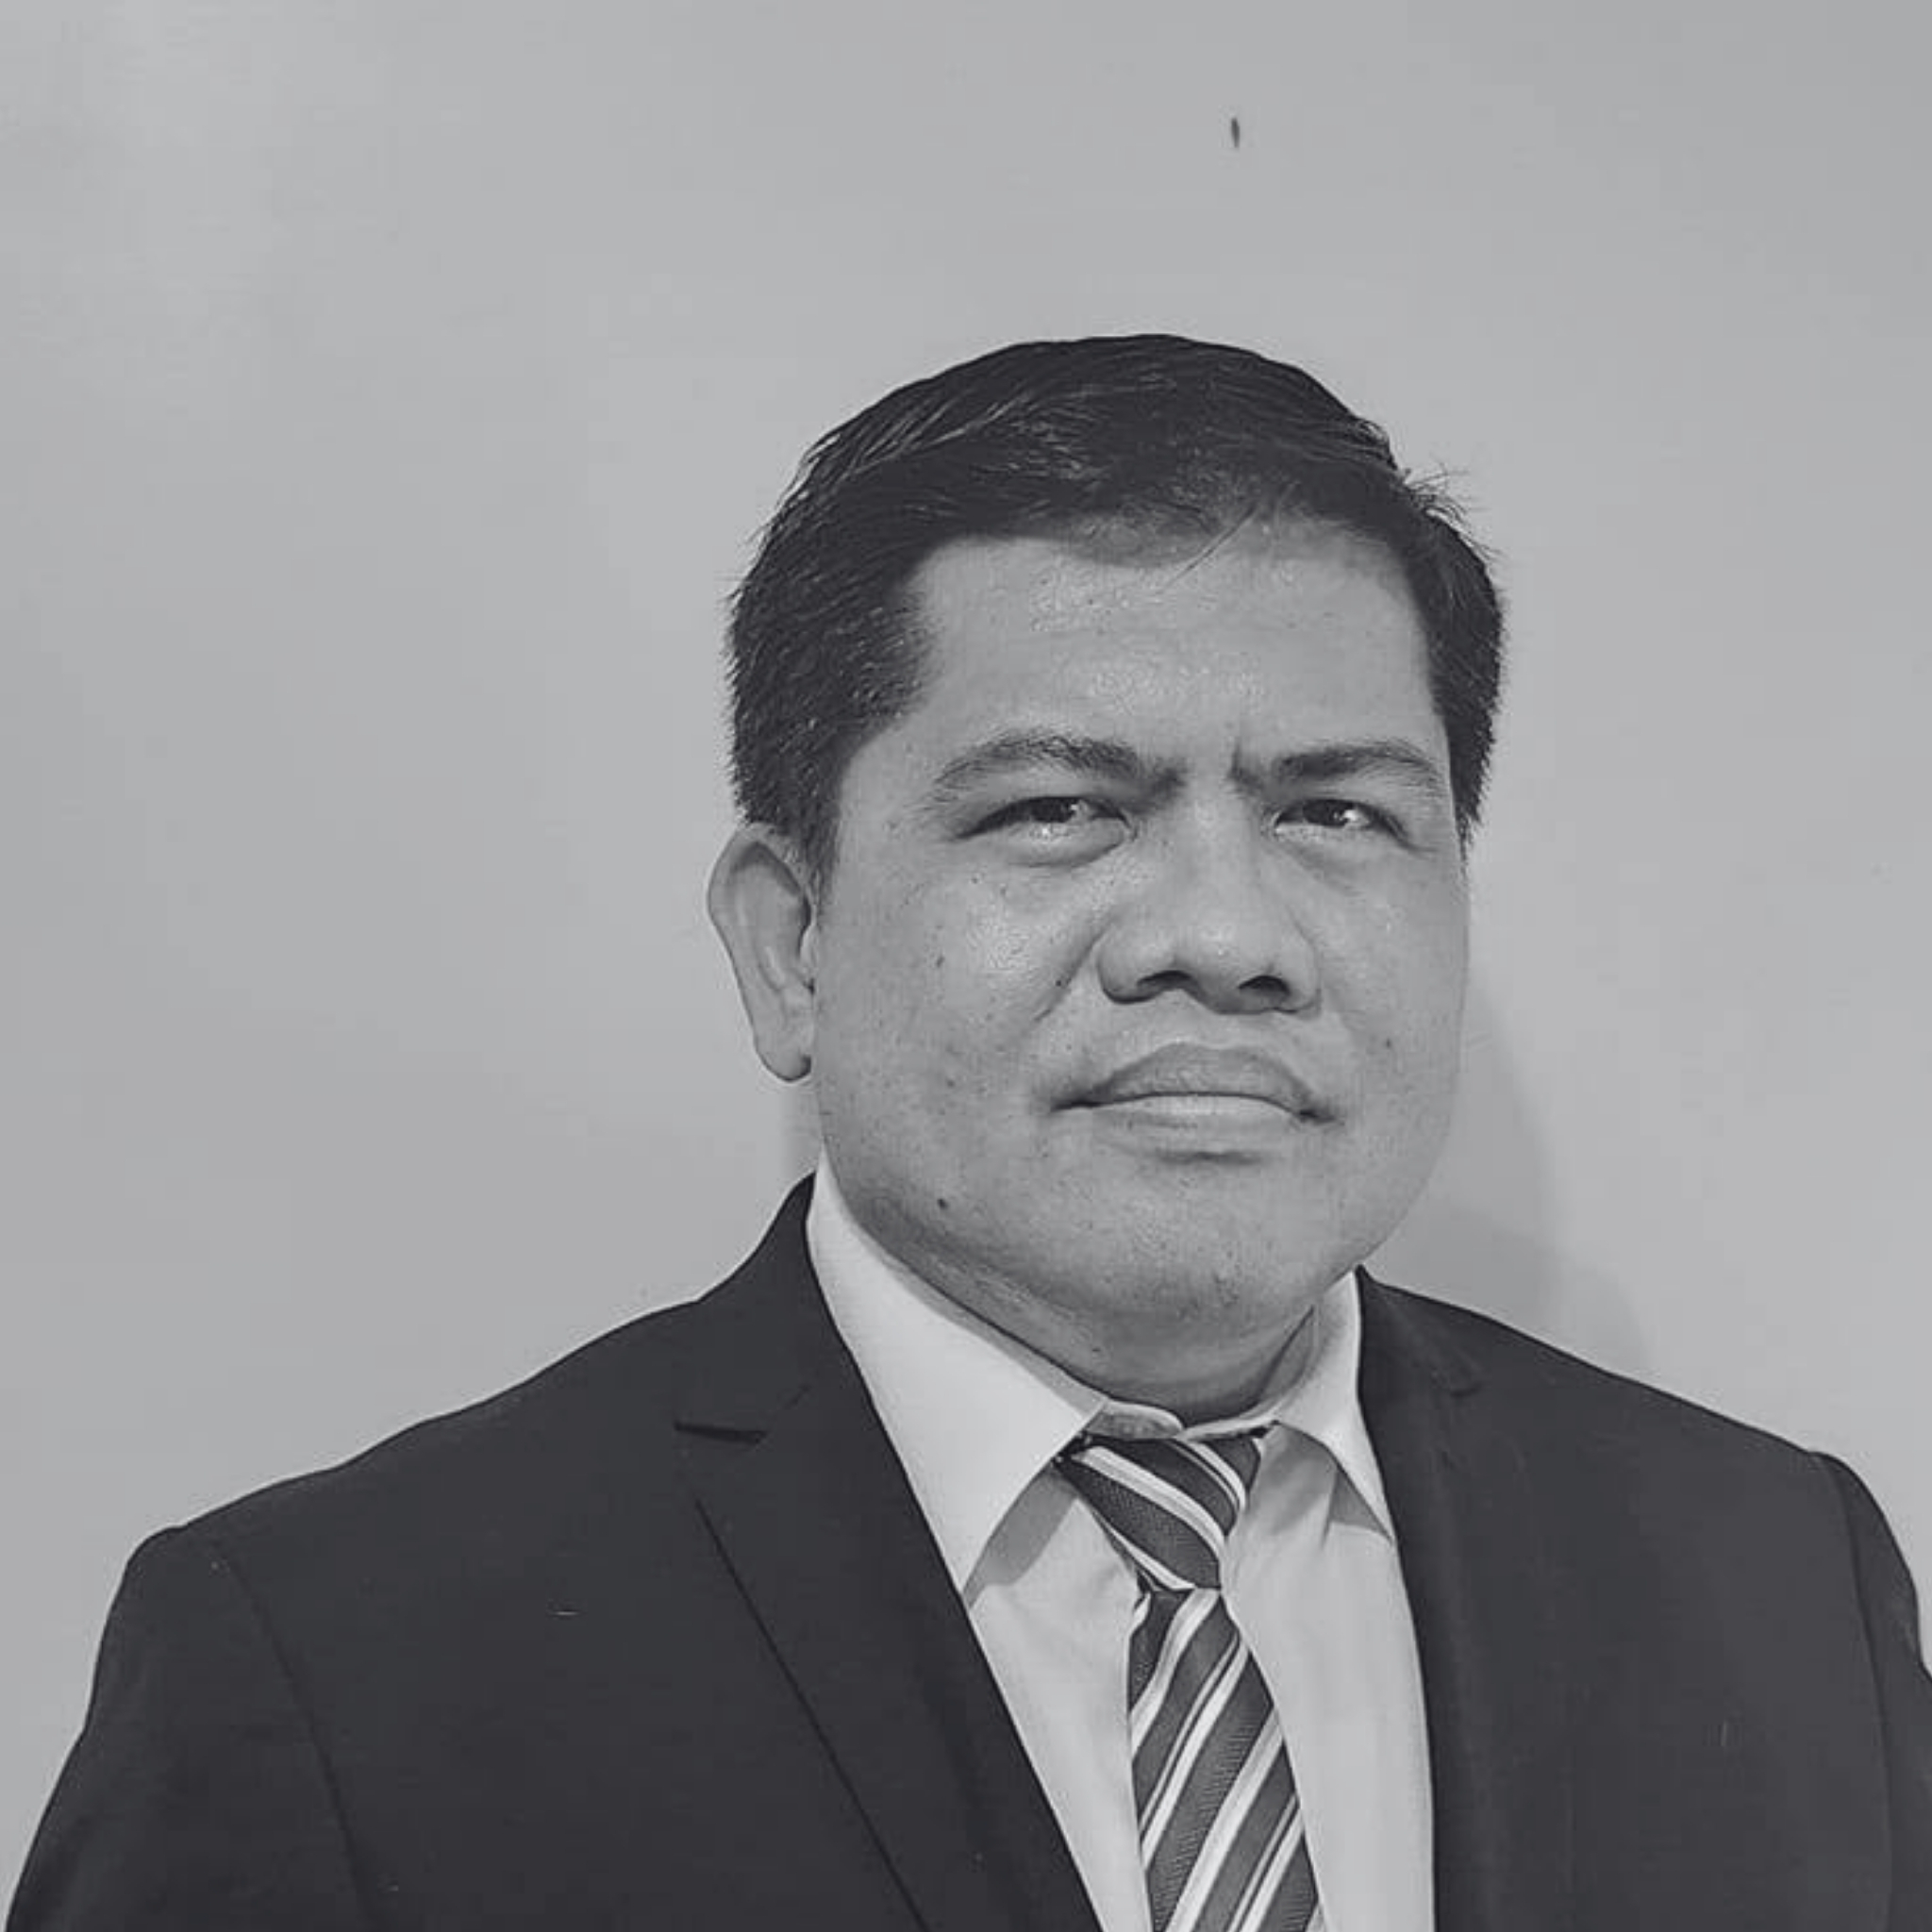
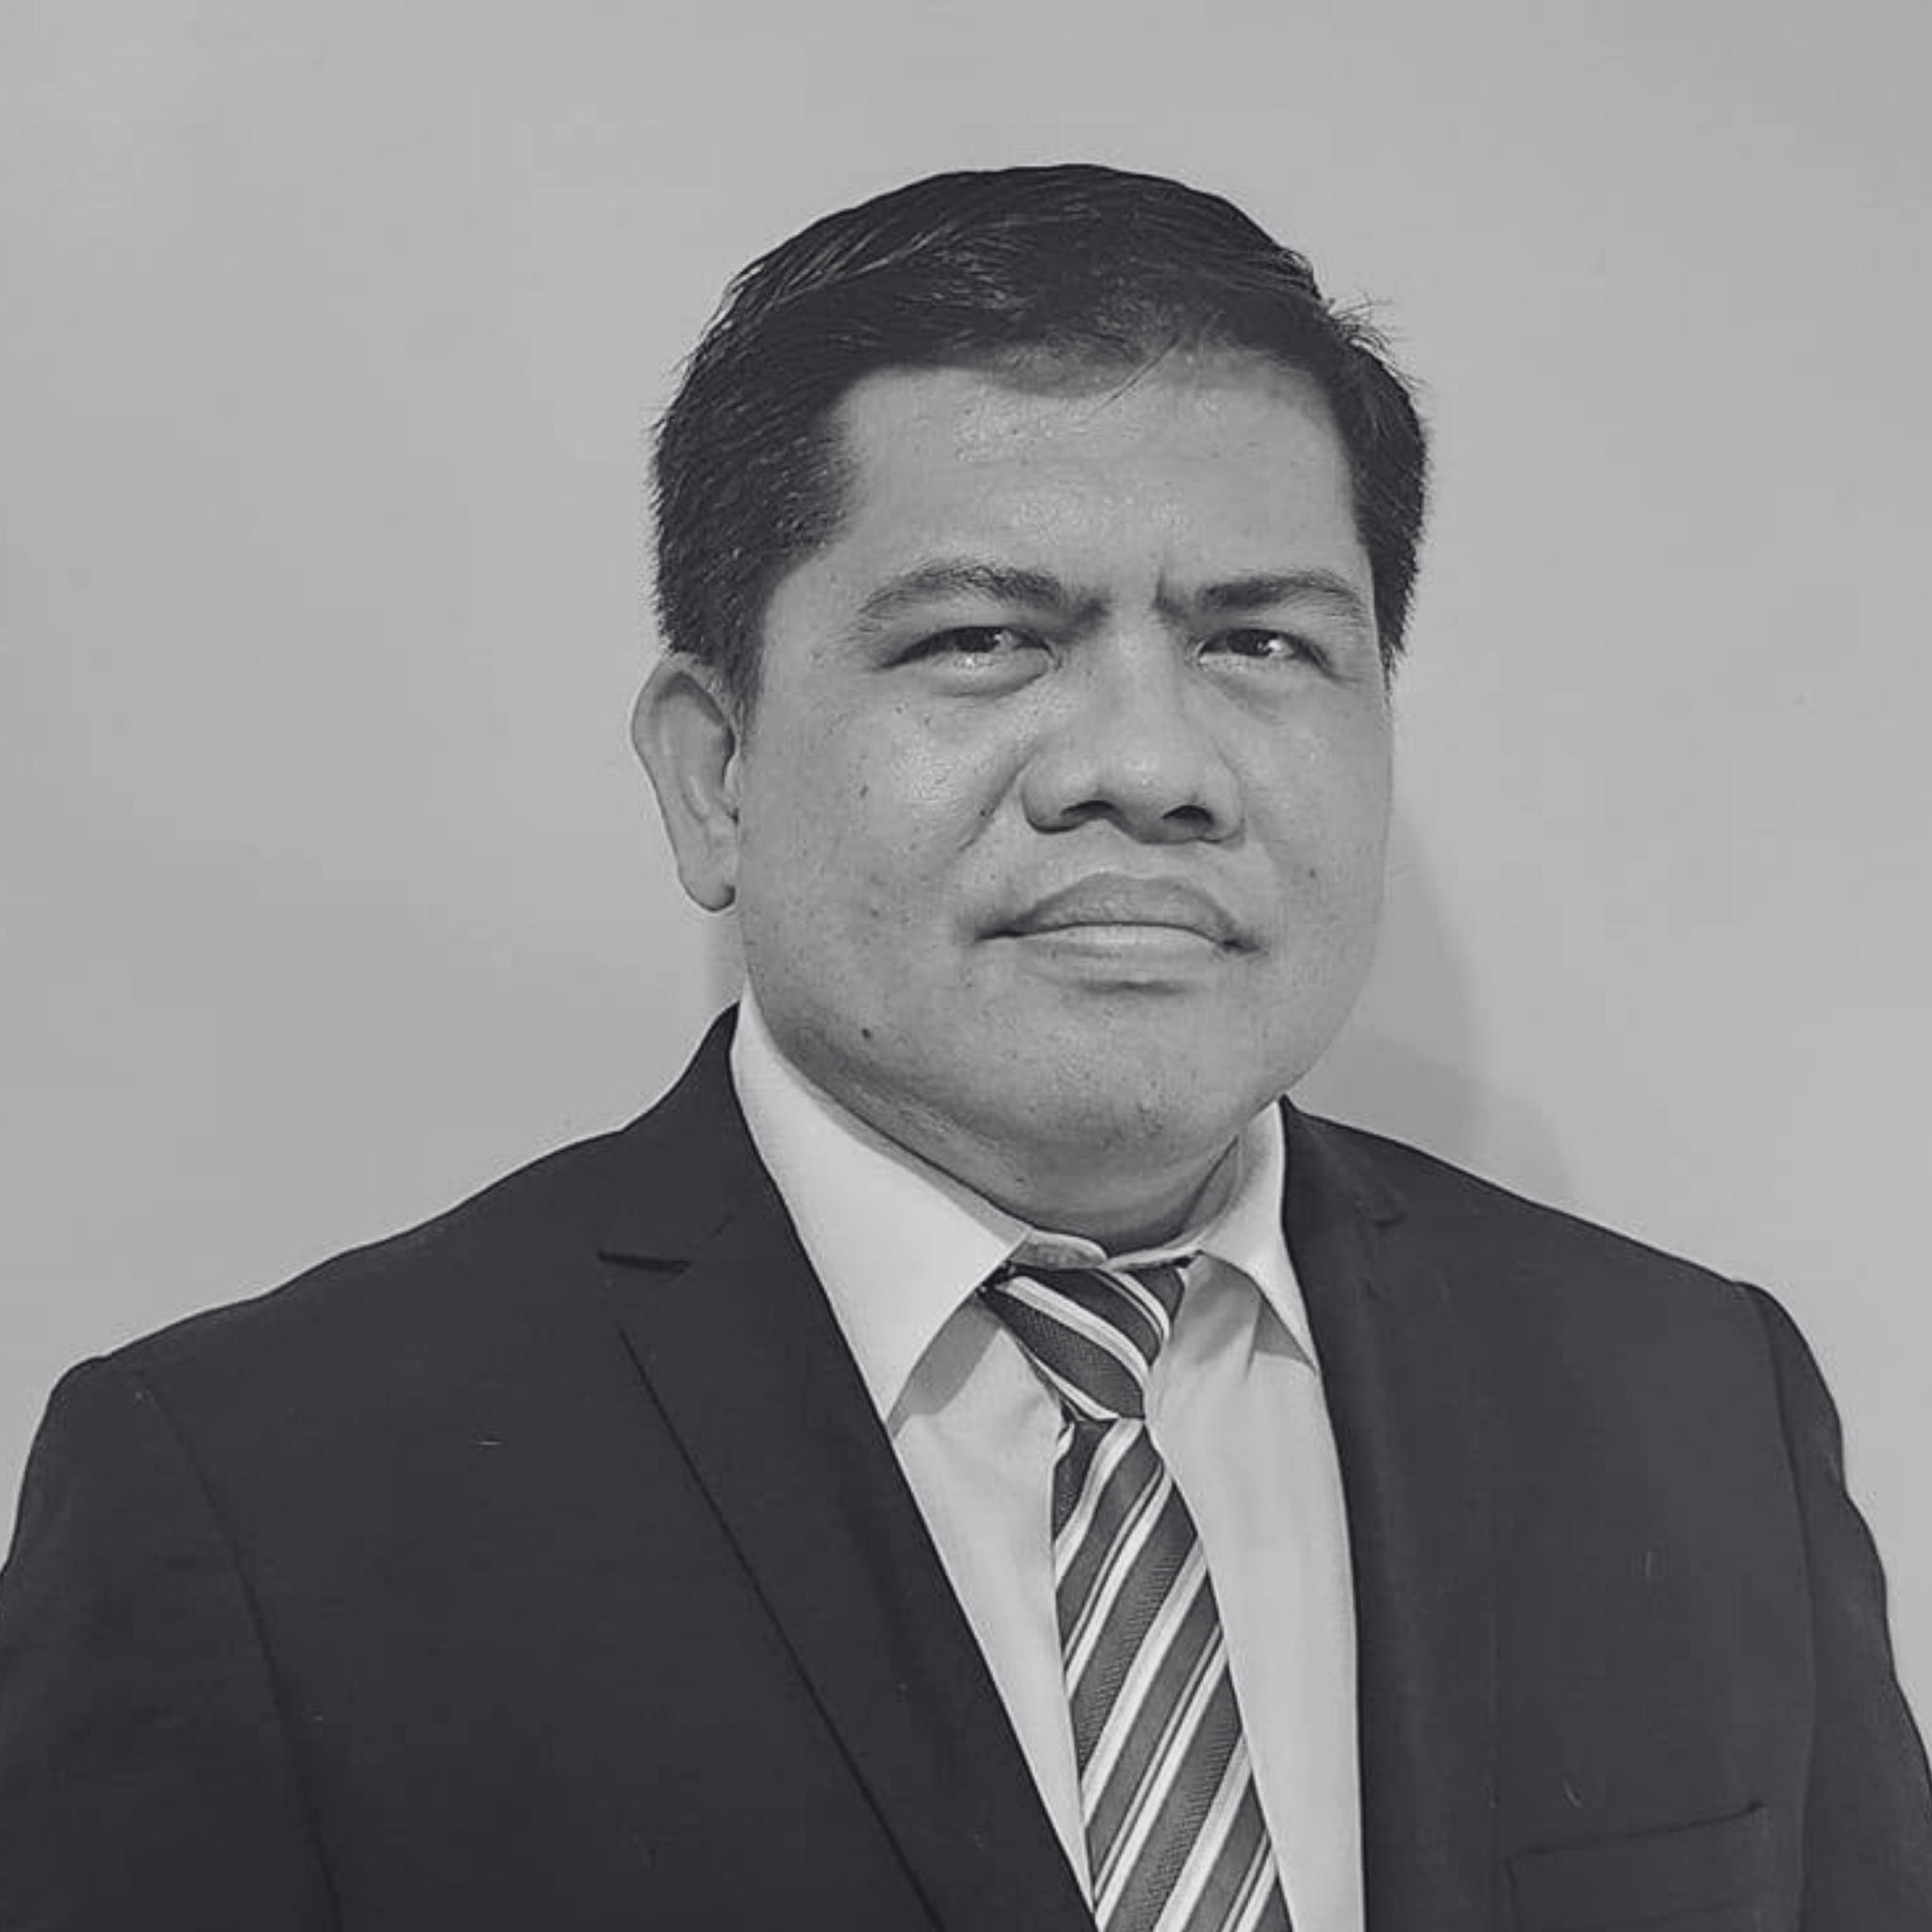
update

Changed region(s): [[0.0, 0.0625, 0.9688, 1.0], [0.9688, 0.7812, 1.0, 0.9062]]

diff --git a/src/views/ProgramsView.vue b/src/views/ProgramsView.vue
@@ -76,18 +76,18 @@ onMounted(() => {
           <div class="team-grid mt-2">
             <div class="team-member">
               <img class="team-avatar" src="/newsletter/author/sammy-tabuena.jpg" alt="Sammy Tabuena" />
-              <h4>Sammy Tabuena</h4>
-              <p>Transcription and Editorial Preparation</p>
-              <p>Senior Instructor</p>
-              <p>Pastor, New Testament Baptist Church - Trapiche, Oton</p>
+              <h4>Sammy G. Tabuena</h4>
+              <p style="font-style: italic; font-size: 0.9rem;">Transcription and Editorial Preparation
+              <br>Senior Instructor
+              <br>Pastor, New Testament Baptist Church - Trapiche, Oton, Iloilo</p>
             </div>
             
           
             <div class="team-member">
               <img class="team-avatar" src="/newsletter/author/john-louie.jpg" alt="Pastor John Louie Berdejo" />
               <h4>John Louie Berdejo</h4>
-              <p>Instructor</p>
-              <p>Pastor, Graced Community Bible Fellowship - Iloilo City</p>
+              <p style="font-style: italic; font-size: 0.9rem;">Instructor
+              <br>Pastor, Graced Community Bible Fellowship - Iloilo City</p>
             </div>
 
 